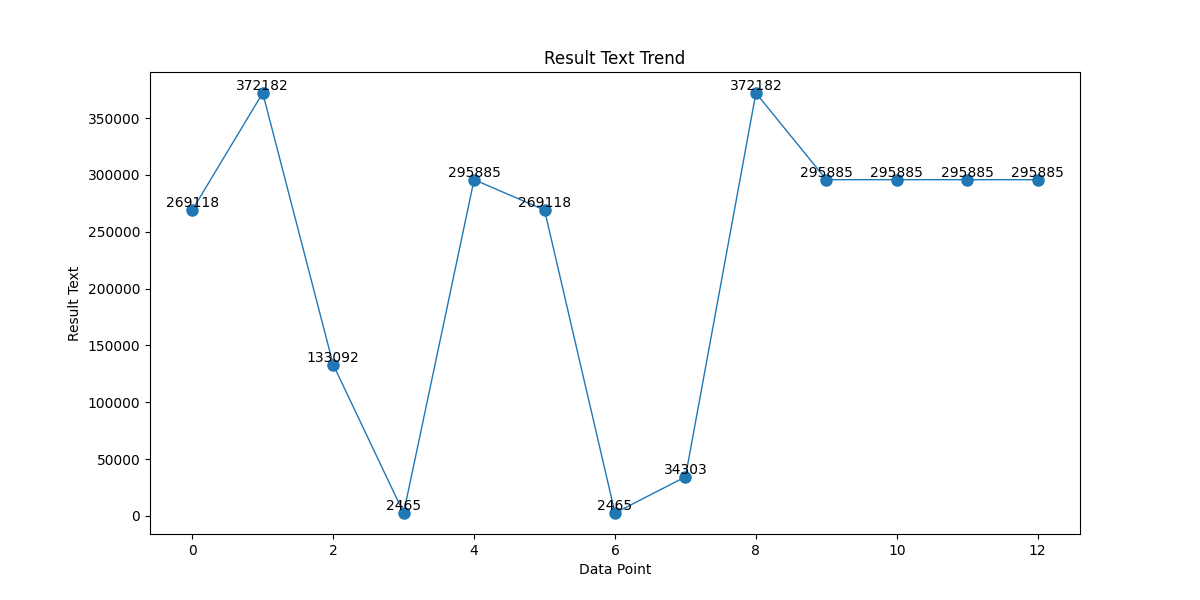
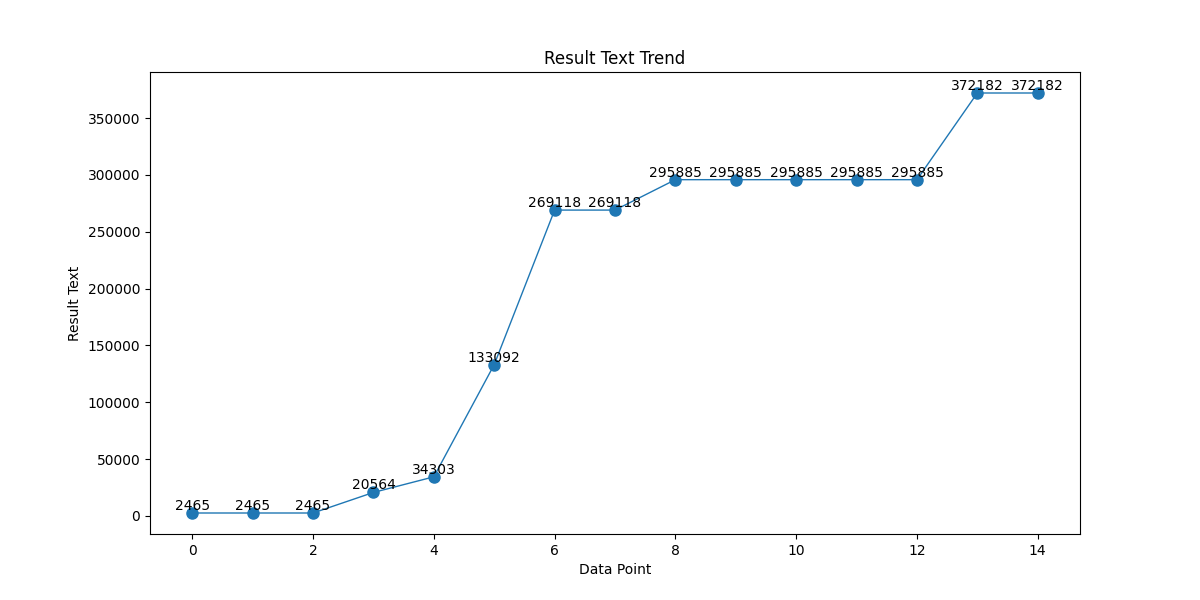
updates

diff --git a/templates/history.html b/templates/history.html
@@ -5,7 +5,7 @@
     {% include('includes/navbar.html') %}
     <div class="container">
       <div class="row">
-        <div class="col-lg-6 p-3">
+        <div class="col-lg-12 p-3">
           <h3>Water Meter Dashboard History</h3>
           <table class="table table-striped">
             <thead>
@@ -31,10 +31,6 @@
               {% endfor %}
             </tbody>
           </table>
-        </div>
-        <div class="col-lg-6 p-3">
-          <h3>Result Text Trend</h3>
-          <img src="{{ plot_path }}" width="500px" />
         </div>
       </div>
     </div>

diff --git a/templates/includes/navbar.html b/templates/includes/navbar.html
@@ -16,7 +16,13 @@
     <div class="collapse navbar-collapse" id="navmenu">
       <ul class="navbar-nav ms-auto">
         <li class="nav-item">
-          <a href="/history" class="nav-link text-white">History</a>
+          <a href="/" class="nav-link text-white">Home</a>
+        </li>
+        <li class="nav-item">
+          <a href="/history" class="nav-link text-white">Prediction History</a>
+        </li>
+        <li class="nav-item">
+          <a href="/trend" class="nav-link text-white">Trend</a>
         </li>
       </ul>
     </div>

diff --git a/templates/trend.html b/templates/trend.html
@@ -1,0 +1,17 @@
+<!DOCTYPE html>
+<html lang="en">
+  {% include('includes/head.html') %}
+  <body>
+    {% include('includes/navbar.html') %}
+    <div class="container">
+      <div class="row text-center">
+        <div class="col-lg-12 p-3">
+          <h3>Result Text Trend</h3>
+          <img src="{{ plot_path }}" width="500px" />
+        </div>
+      </div>
+    </div>
+
+    <!-- {% include('includes/footer.html') %} -->
+  </body>
+</html>

diff --git a/app.py b/app.py
@@ -84,7 +84,7 @@ def index():
 @app.route("/history")
 def history():
     df = pd.read_csv("ocr_results.csv")
-    df = df.sort_values(by=['timestamp'])
+    df = df.sort_values(by=['result_text'])
     x = list(range(len(df)))
     data = [int(val) for val in df['result_text'].iloc[:]]
 
@@ -104,6 +104,12 @@ def history():
     plt.savefig(plot_path)
 
     return render_template("history.html", df=df, plot_path=plot_path)
+
+
+@app.route("/trend")
+def trend():
+    plot_path = 'static/result/plot.png'
+    return render_template("trend.html", plot_path=plot_path)
 
 
 if __name__ == "__main__":
